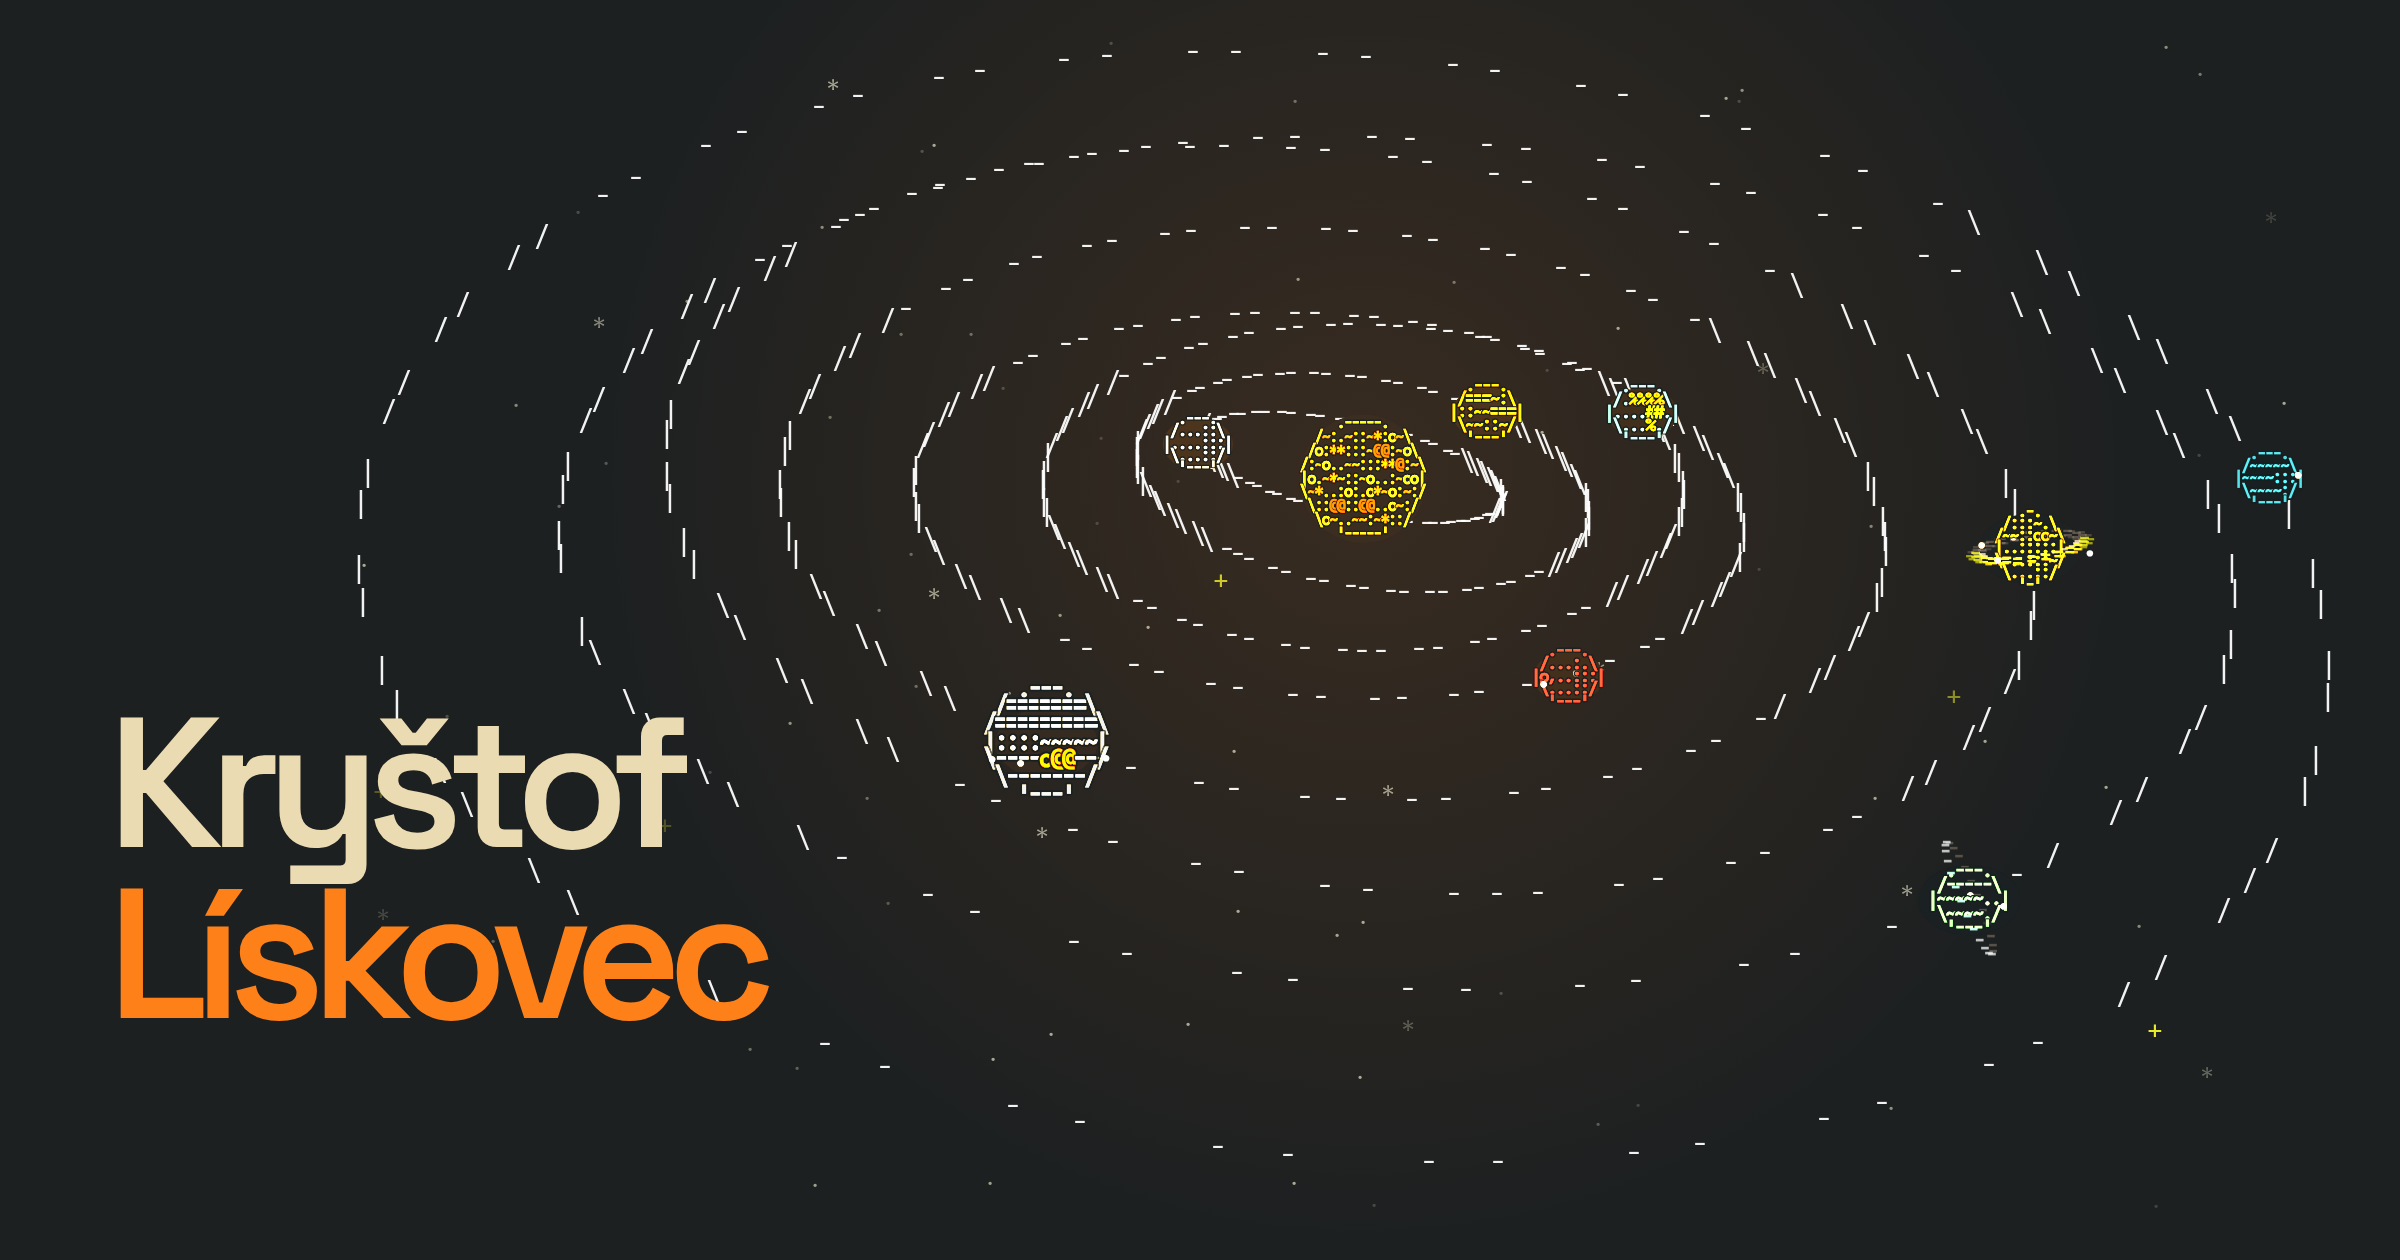
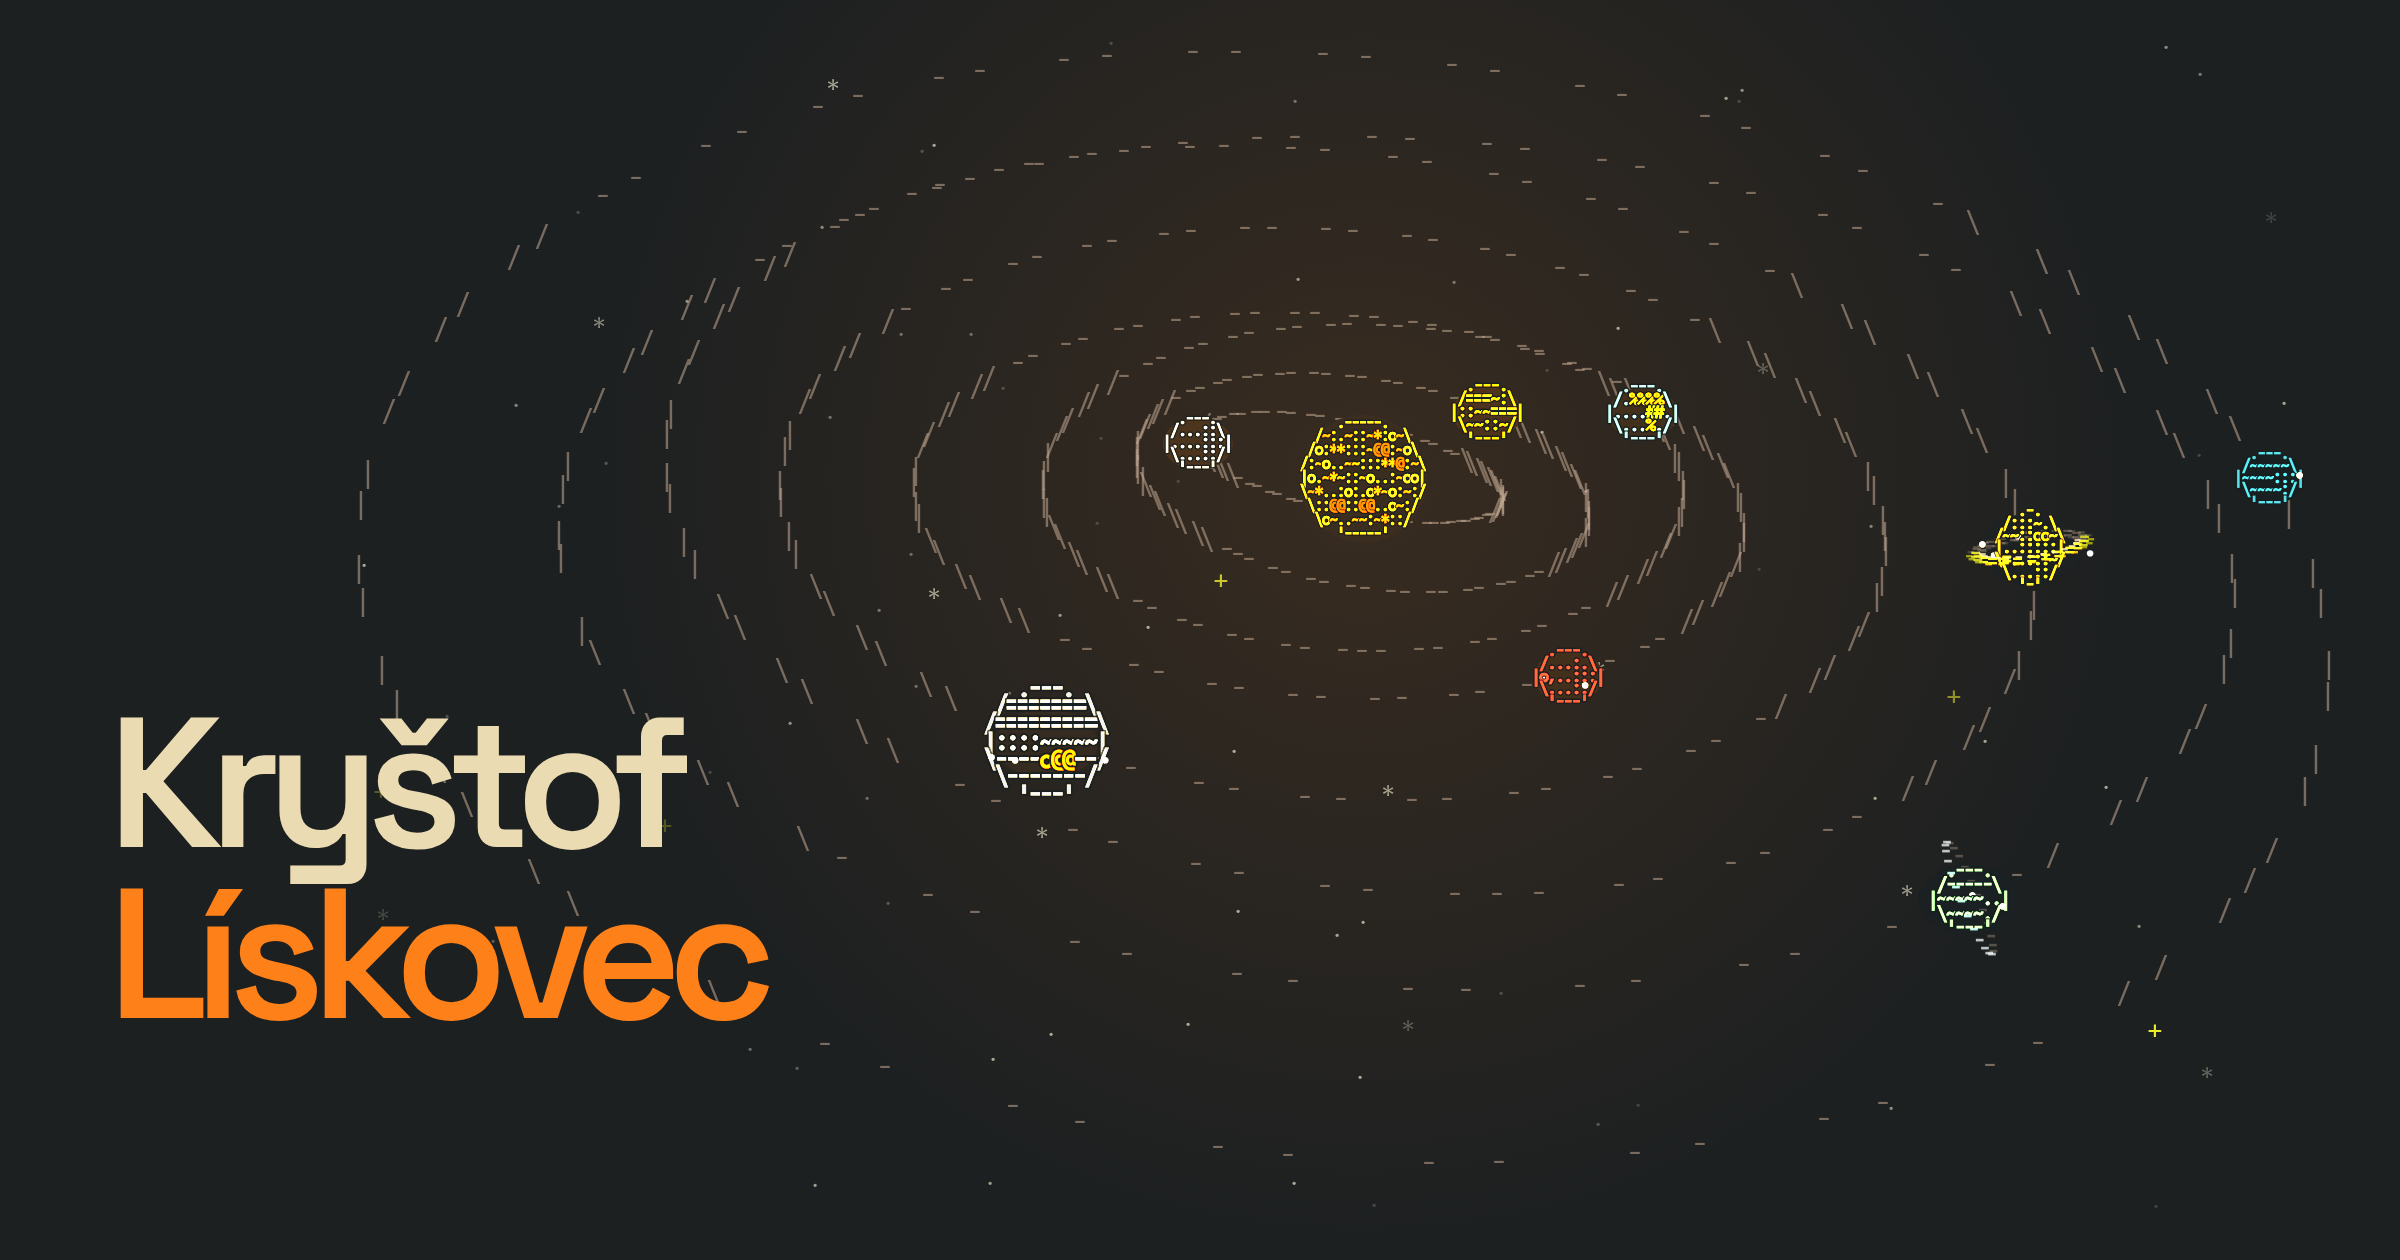
fix: refine orrery OG preview styling

diff --git a/src/scripts/orrery/solar-system-scene.ts b/src/scripts/orrery/solar-system-scene.ts
@@ -182,11 +182,12 @@ export class SolarSystemSceneRenderer {
             context,
             particleRenderer,
             font,
-            isOgPreview ? '#bdae93' : '#7c6f64',
+            isOgPreview ? '#665c54' : '#7c6f64',
             pixelRatio,
         );
+        const orbitOpacity = isOgPreview ? 0.78 : 1;
         for (const mark of marks) {
-            drawOrbitGlyph(mark.glyph, mark.x, mark.y, mark.alpha * mark.reveal * (isOgPreview ? 1.35 : 1));
+            drawOrbitGlyph(mark.glyph, mark.x, mark.y, mark.alpha * mark.reveal * orbitOpacity);
         }
         context.globalAlpha = 1;
     }
